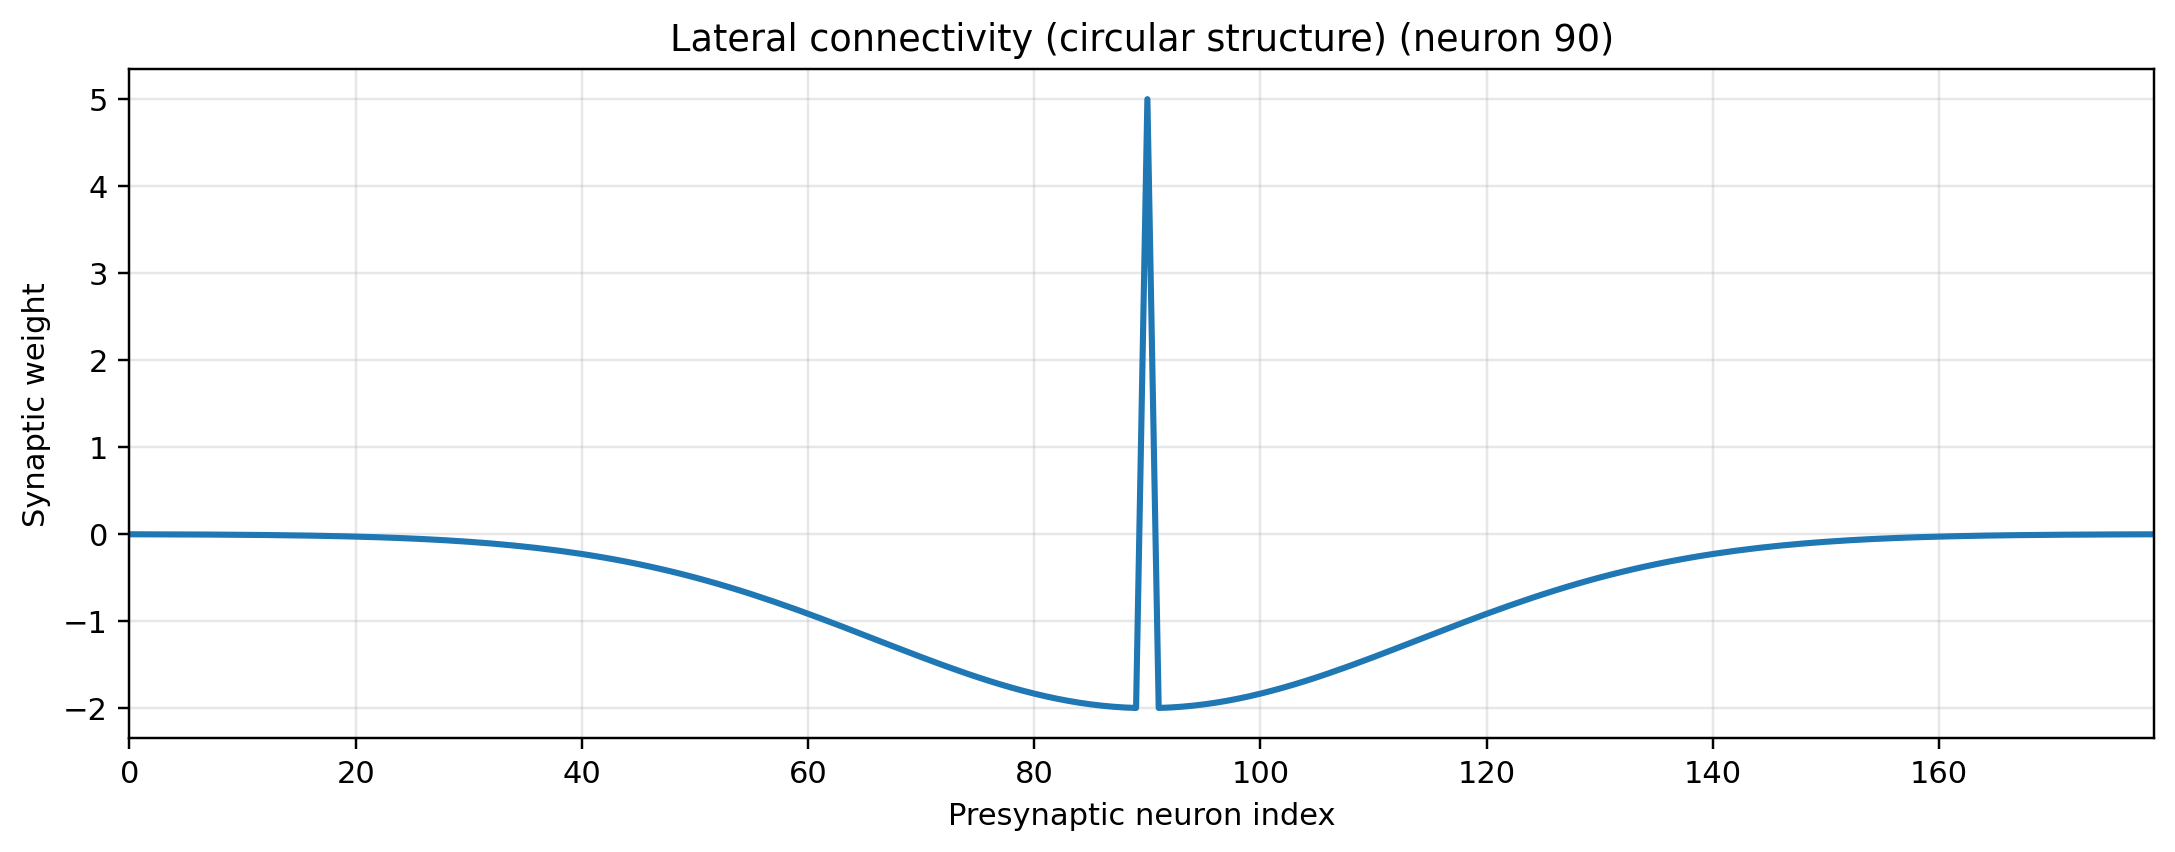
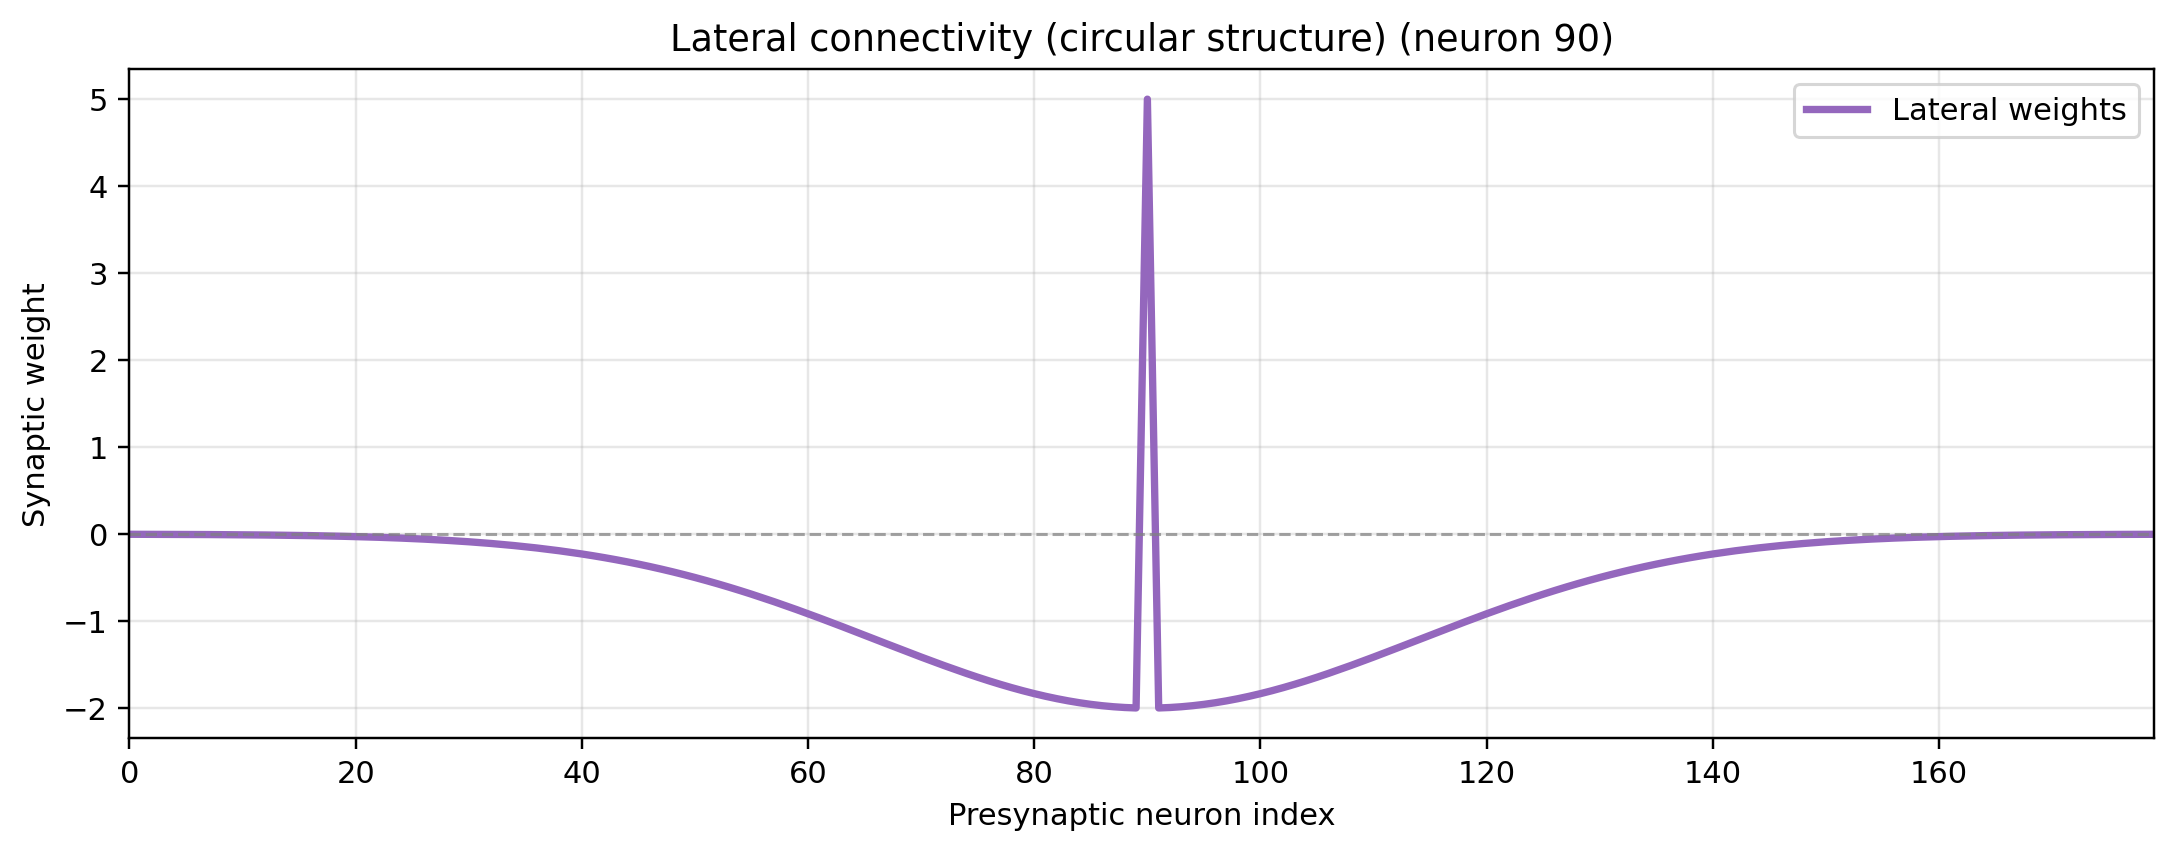
Colorize lateral profile figure for visual consistency

diff --git a/10_competitive_networks/competitive_model/competitive_network.py b/10_competitive_networks/competitive_model/competitive_network.py
@@ -162,12 +162,19 @@ def plot_lateral_profile(L, neuron_idx=None, title="Lateral synapses profile"):
         neuron_idx = N // 2
 
     fig = plt.figure(figsize=(10, 4))
-    plt.plot(L[neuron_idx, :], linewidth=2)
+    plt.plot(
+        L[neuron_idx, :],
+        color="tab:purple",
+        linewidth=2.4,
+        label="Lateral weights",
+    )
+    plt.axhline(0, color="gray", linewidth=1, linestyle="--", alpha=0.7)
     plt.title(f"{title} (neuron {neuron_idx})")
     plt.xlabel("Presynaptic neuron index")
     plt.ylabel("Synaptic weight")
     plt.xlim(0, N - 1)
     plt.grid(True, alpha=0.3)
+    plt.legend()
     plt.tight_layout()
     return fig
 
